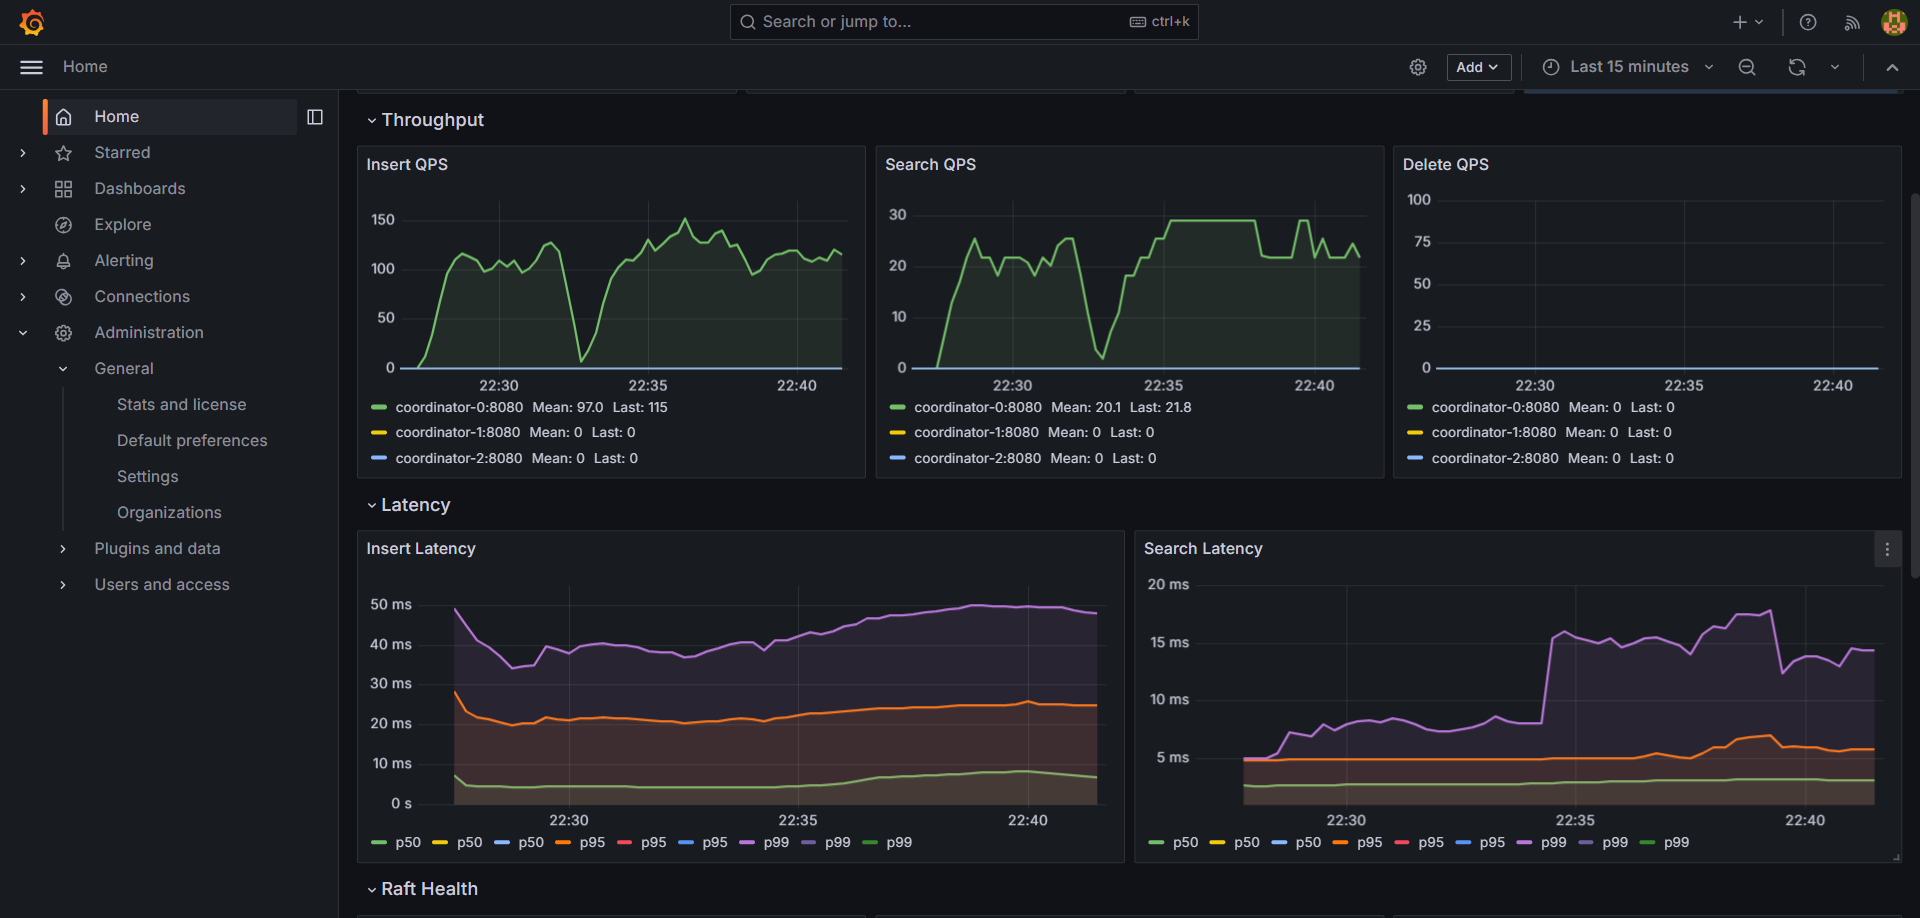
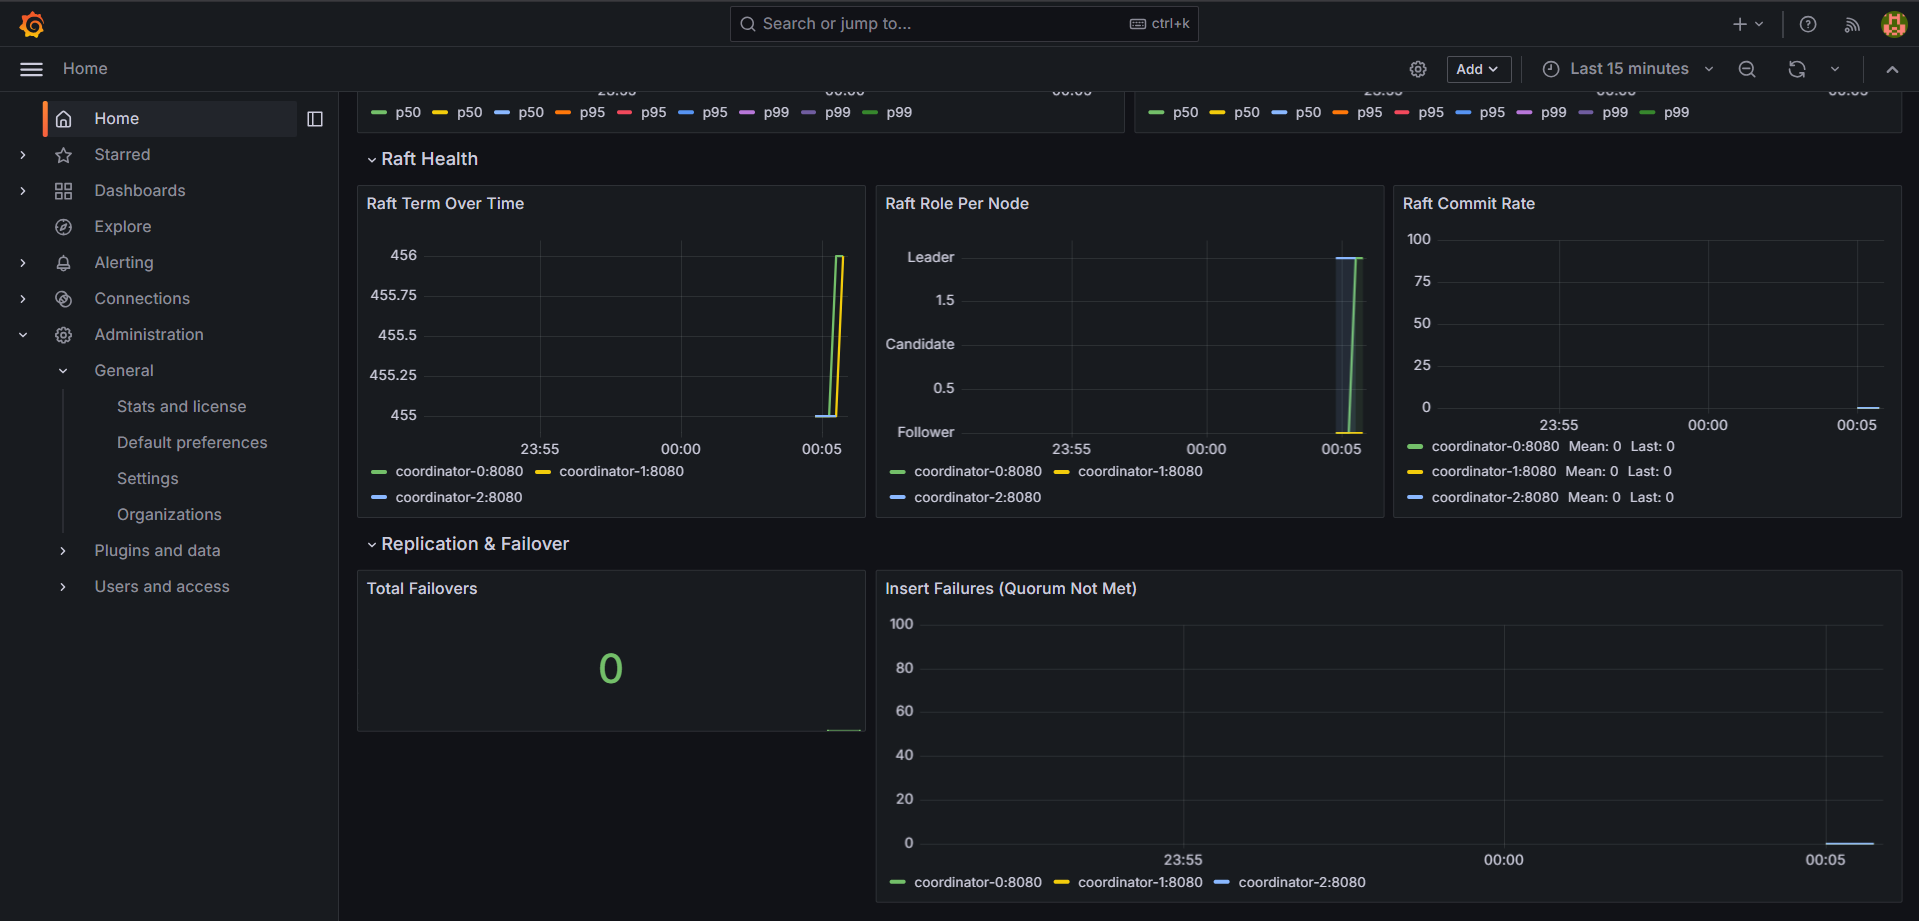
docs: update Grafana screenshot and caption to show actual leader election
Screenshot now shows Raft Health panels: term 455->456, coordinator-1
elected leader, Total Failovers=0, Insert Failures=0.
Caption corrected to match — shard primaries untouched, zero data-plane
disruption during Raft leader kill.

diff --git a/README.md b/README.md
@@ -76,7 +76,7 @@ Cluster is up. Current leader: coordinator-0 (term=3)
   See Grafana (localhost:3000) for failover_total and vectors_total graphs.
 ```
 
-The Grafana dashboard shows `nanodb_failovers_total` tick up by 1 and `nanodb_vectors_total` never dip:
+Raft term jumps 455→456 as coordinator-1 wins the election; shard failovers=0 and insert failures=0 throughout — the Raft layer absorbed the leader kill with zero data-plane disruption:
 
 ![Grafana Dashboard](docs/images/grafana.png)
 